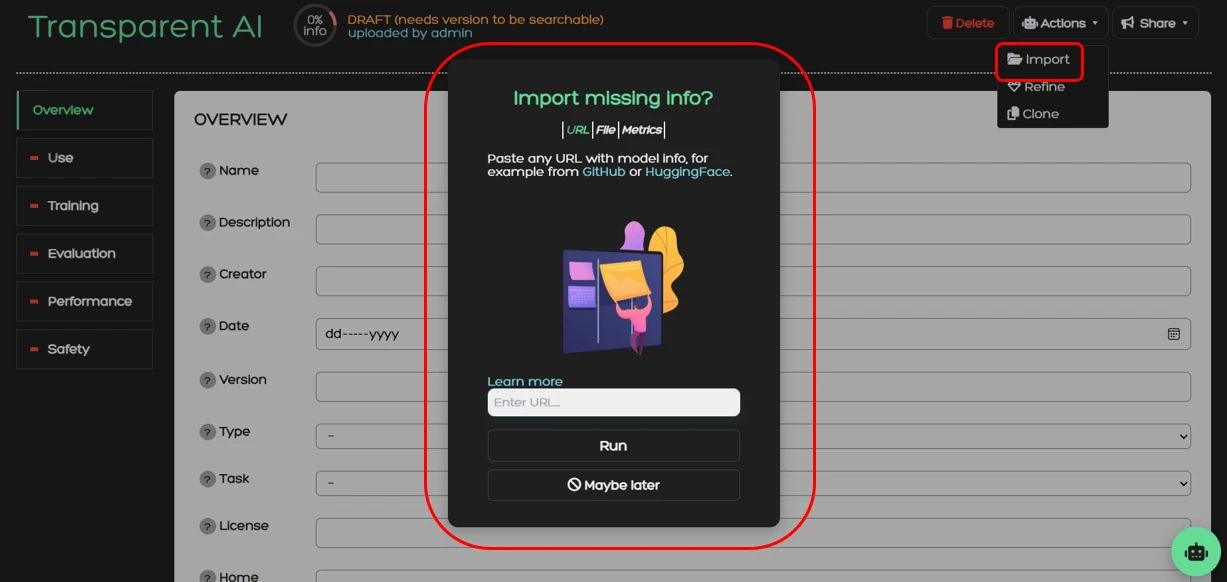
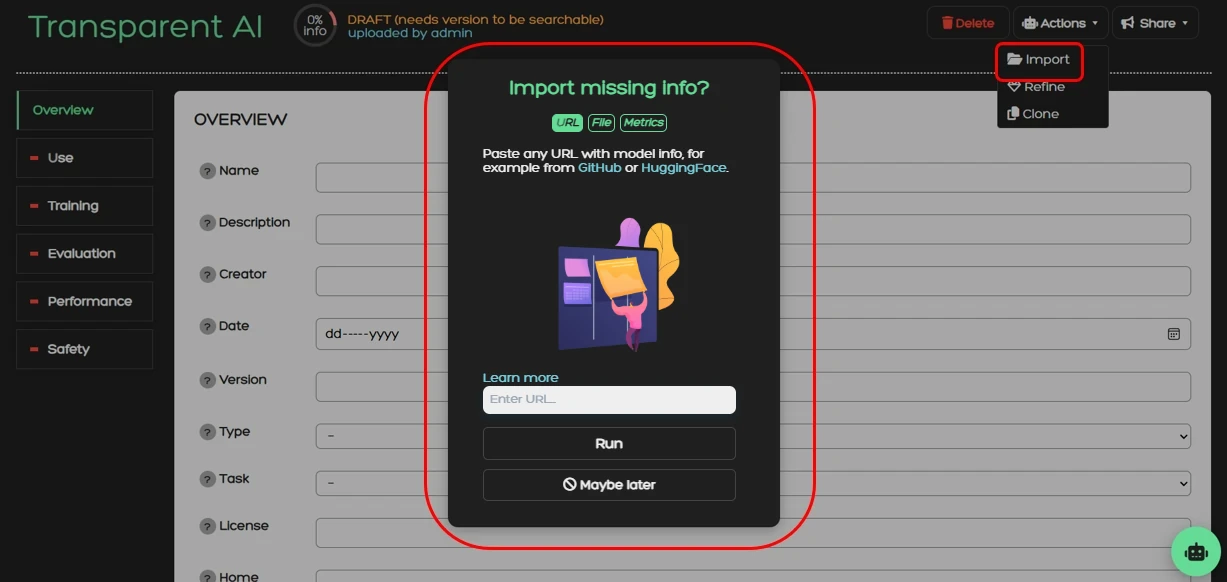
updated handbook

diff --git a/ui/transparency/css/handbook.css b/ui/transparency/css/handbook.css
@@ -78,7 +78,7 @@ h2::after {
     border-bottom: 1px solid #e6e6e64a;
 }
 .menu_item2 {
-    padding: 0.3rem 0 0.3rem 2rem;
+    padding: 0.2rem 0 0.2rem 2rem;
 }
 .menu_item1.active, .menu_item2.active {color: #64DB96;}
 
